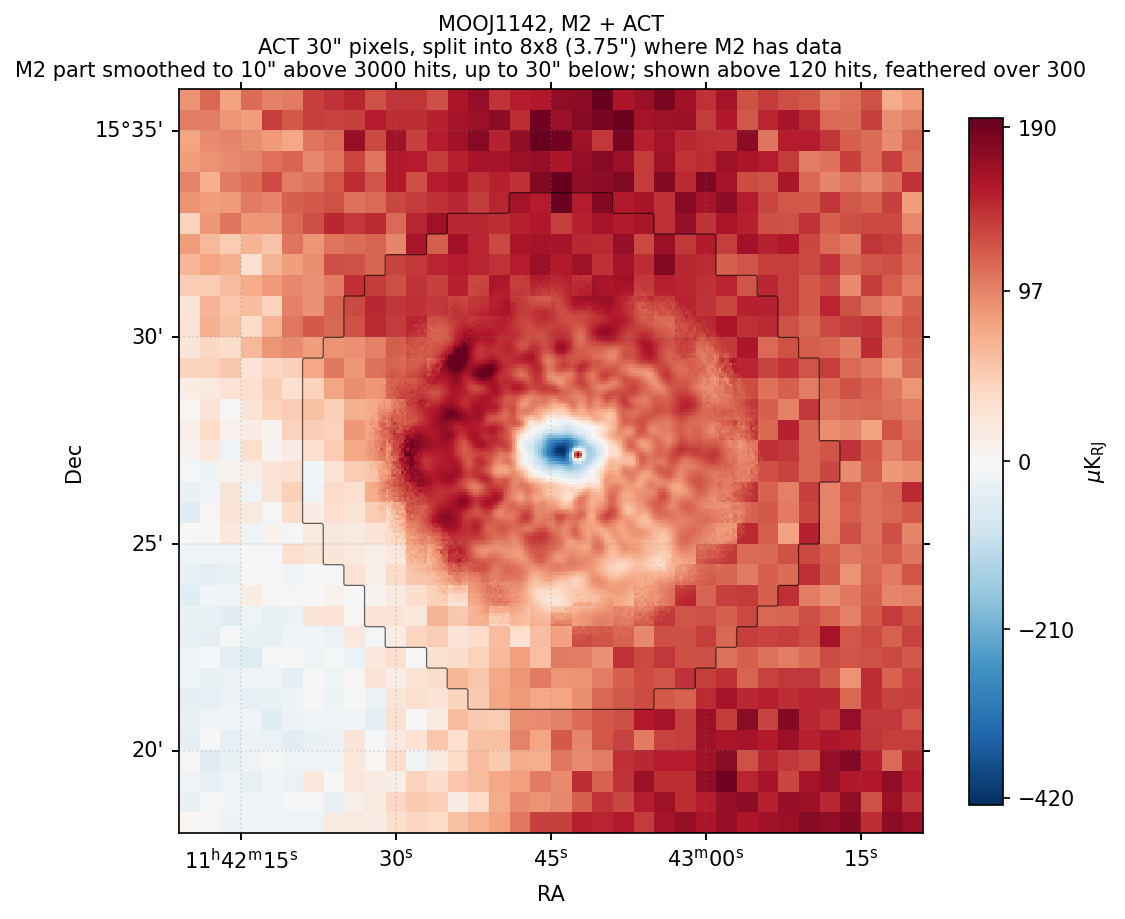
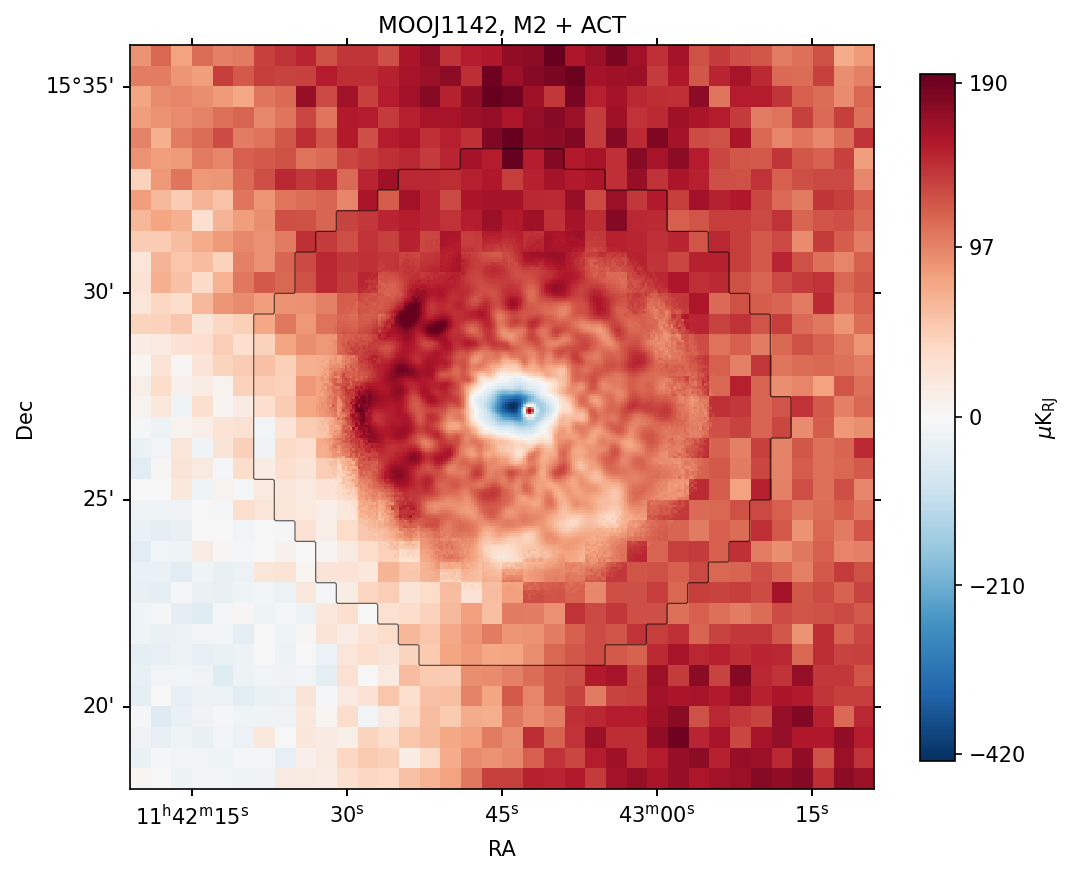
feat: multiscale maps with short titles, display settings printed as a caption and in the page captions, RA/Dec grid optional (--grid)

diff --git a/reports/convergence_summary.html b/reports/convergence_summary.html
@@ -362,15 +362,15 @@ a:focus-visible { outline: 2px solid var(--accent); outline-offset: 2px; }
 </div>
 <figure>
 <img src="figs/summary/best_sim_multiscale.png" alt="Simulation with no mask: truth, simulated data and residual as two-resolution maps">
-<figcaption><strong>Figure 8. Best configuration on the simulation: no mask, no prior, 600 iterations.</strong> Truth: the simulated sky, and in the ACT pixels the sky as a noiseless ACT sees it (ACT beam, pixel average). Data: the joint map, and in the ACT pixels a simulated ACT map with noise from the real ACT inverse variance. The residual's M2 part is smoothed to 30″. Its rms is 9.9 µK in the M2 part and 17.8 µK in the ACT pixels, which is ACT noise.</figcaption>
+<figcaption><strong>Figure 8. Best configuration on the simulation: no mask, no prior, 600 iterations.</strong> 18′ field. 30″ ACT pixels, split into 8 × 8 sub-pixels (3.75″) where M2 has data (hits ≥ 20). The thin stair-step line outlines the split pixels. The M2 part is smoothed to 10″ above 3000 hits and up to 30″ below, shown above 120 hits and feathered into ACT over 300. The positive end of the colour scale is fixed at +150 µK, about the real map's CMB range, because this simulated patch has little CMB. Truth: the simulated sky, and in the ACT pixels the sky as a noiseless ACT sees it (ACT beam, pixel average). Data: the joint map, and in the ACT pixels a simulated ACT map with noise from the real ACT inverse variance. The residual's M2 part is smoothed to 30″. Its rms is 9.9 µK in the M2 part and 17.5 µK in the ACT pixels, which is ACT noise.</figcaption>
 </figure>
 <figure>
 <img src="figs/summary/sim_multiscale.png" alt="Simulation: masked needlet solve and masked solve with the outside prior, truth, data and residual">
-<figcaption><strong>Figure 9. For comparison, the two masked solves</strong> (needlet CG without and with the outside prior), shown the same way. The patches at the footprint edge in the first row's residual are what the mask causes.</figcaption>
+<figcaption><strong>Figure 9. For comparison, the two masked solves</strong> (needlet CG without and with the outside prior), shown the same way as Figure 8. The patches at the footprint edge in the first row's residual are what the mask causes.</figcaption>
 </figure>
 <figure>
 <img src="figs/summary/multiscale.png" alt="Real data: MOOJ1142 M2 plus ACT two-resolution map from the masked solve">
-<figcaption><strong>Figure 10. Real data, 40 TODs, masked solve (600 iterations, K<sub>RJ</sub>).</strong> The ACT map is the coadd of the 8 DR6 f090 splits. This is a placeholder from the earlier masked run. The same map with no mask is queued, first for 40 TODs and then for all TODs, and will replace it here.</figcaption>
+<figcaption><strong>Figure 10. Real data, 40 TODs, masked solve (600 iterations, K<sub>RJ</sub>).</strong> Same display as Figure 8, with the colour scale set by the map itself. The ACT map is the coadd of the 8 DR6 f090 splits, and the thin stair-step line outlines the ACT pixels split into M2 sub-pixels. The joint map's offset from ACT inside the M2 region (−10 µK) is subtracted. This is a placeholder from the earlier masked run. The same map with no mask is queued, first for 40 TODs and then for all TODs, and will replace it here.</figcaption>
 </figure>
 </section>
 </div>

diff --git a/reports/needlet_mapmaking.html b/reports/needlet_mapmaking.html
@@ -291,11 +291,11 @@ out 9 [ G₉₀   G₉₁   G₉₂  …   G₉₉ ]</div>
 </ul>
 <figure>
   <img src="figs/summary/best_sim_multiscale.png" alt="Simulation, best configuration: truth, simulated data and residual as two-resolution maps">
-  <figcaption><strong>Best configuration on the simulation: no mask, no prior, 600 iterations.</strong> Display maps for viewing only: 30″ ACT pixels, split into 8 × 8 sub-pixels (3.75″) where M2 has data. A sub-pixel shows the joint map where it has at least 120 hits, feathered into ACT over the next 300 hits. Below 120 hits it shows its ACT pixel's value, since at those fine scales ACT carries no information and the map there would be pure low-hit M2 noise. The joint map is smoothed to 10″ where it has at least 3000 hits, and more where it has fewer: FWHM 10″ × √(3000 / hits), up to 30″. That keeps the displayed M2 noise about constant. The residual's M2 part is smoothed to 30″: 10 µK rms there, against 18 µK of ACT noise in the ACT pixels.</figcaption>
+  <figcaption><strong>Best configuration on the simulation: no mask, no prior, 600 iterations.</strong> Display maps for viewing only, 18′ field: 30″ ACT pixels, split into 8 × 8 sub-pixels (3.75″) where M2 has data (hits ≥ 20). The thin stair-step line outlines the split pixels. A sub-pixel shows the joint map where it has at least 120 hits, feathered into ACT over the next 300 hits. Below 120 hits it shows its ACT pixel's value, since at those fine scales ACT carries no information and the map there would be pure low-hit M2 noise. The joint map is smoothed to 10″ where it has at least 3000 hits, and more where it has fewer: FWHM 10″ × √(3000 / hits), up to 30″. That keeps the displayed M2 noise about constant. The residual's M2 part is smoothed to 30″: 10 µK rms there, against 18 µK of ACT noise in the ACT pixels.</figcaption>
 </figure>
 <figure>
   <img src="figs/summary/multiscale.png" alt="Real data: MOOJ1142 M2 plus ACT two-resolution map, masked solve">
-  <figcaption><strong>Real data, 40 TODs, K<sub>RJ</sub> units, 600 iterations, still with the mask.</strong> Same display. The ACT map is the coadd of the 8 DR6 f090 splits. Runs without the mask are queued, for 40 TODs and then for all TODs, and will replace this map.</figcaption>
+  <figcaption><strong>Real data, 40 TODs, K<sub>RJ</sub> units, 600 iterations, still with the mask.</strong> 18′ field, same display as above. The thin stair-step line outlines the ACT pixels split into M2 sub-pixels. The ACT map is the coadd of the 8 DR6 f090 splits, and the joint map's offset from ACT in the M2 region (−10 µK) is subtracted. Runs without the mask are queued, for 40 TODs and then for all TODs, and will replace this map.</figcaption>
 </figure>
 
 <h2>Open questions</h2>

diff --git a/examples/multiscale_map.py b/examples/multiscale_map.py
@@ -327,6 +327,28 @@ def smoothing_label(args) -> str:
     return f"{sm}; shown above {show:g} hits{fe}"
 
 
+def caption(args, pix: float) -> str:
+    """
+    Figure caption text with the pixelization and the display settings.
+
+    Parameters
+    ----------
+    args : argparse.Namespace
+        Parsed arguments.
+    pix : float
+        Sub-pixel size in arcsec.
+
+    Returns
+    -------
+    str
+        The caption.
+    """
+    return (
+        f'ACT {pix * args.factor:g}" pixels, split into {args.factor}x{args.factor} ({pix:g}") where M2 has data '
+        f"(hits >= {args.min_hits:g}); {smoothing_label(args)}."
+    )
+
+
 def ticks(norm: Normalize) -> np.ndarray:
     """
     Colour bar ticks with both sides of a two-slope scale labelled.
@@ -347,7 +369,13 @@ def ticks(norm: Normalize) -> np.ndarray:
 
 
 def draw(
-    ax, image: np.ndarray, split: np.ndarray, norm: Normalize, cmap: str, outline: bool
+    ax,
+    image: np.ndarray,
+    split: np.ndarray,
+    norm: Normalize,
+    cmap: str,
+    outline: bool,
+    grid: bool = False,
 ):
     """
     Draw a display map on WCS axes.
@@ -364,6 +392,8 @@ def draw(
         Colour map.
     outline : bool
         Outline the split ACT pixels.
+    grid : bool, default: False
+        Draw the RA/Dec coordinate grid.
 
     Returns
     -------
@@ -377,7 +407,8 @@ def draw(
         ax.contour(split.astype(float), [0.5], colors="k", linewidths=0.6, alpha=0.6)
     ax.set_xlabel("RA")
     ax.set_ylabel("Dec")
-    ax.coords.grid(color="0.5", alpha=0.25, linestyle=":")
+    if grid:
+        ax.coords.grid(color="0.5", alpha=0.25, linestyle=":")
     return im
 
 
@@ -396,16 +427,15 @@ def plot(args, image, split, m2, wcs):
     """
     fig = plt.figure(figsize=(8, 7))
     ax = fig.add_subplot(projection=wcs)
-    im = draw(ax, image, split, make_norm(image, args), args.cmap, args.outline)
+    im = draw(
+        ax, image, split, make_norm(image, args), args.cmap, args.outline, args.grid
+    )
     fig.colorbar(
         im, ax=ax, label=r"$\mu$K$_{\rm RJ}$", shrink=0.85, ticks=ticks(im.norm)
     )
     pix = abs(wcs.wcs.cdelt[0]) * 3600
-    ax.set_title(
-        f'{args.title}\nACT {pix * args.factor:g}" pixels, split into {args.factor}x{args.factor} '
-        f'({pix:g}") where M2 has data\n{smoothing_label(args)}',
-        fontsize=10,
-    )
+    ax.set_title(args.title, fontsize=11)
+    print("caption:", caption(args, pix))
     fig.savefig(args.out, dpi=args.dpi, bbox_inches="tight")
     print("wrote", args.out)
 
@@ -522,6 +552,7 @@ if __name__ == "__main__":
     parser.add_argument(
         "--outline", action="store_true", help="Outline the split ACT pixels"
     )
+    parser.add_argument("--grid", action="store_true", help="Draw the RA/Dec grid")
     parser.add_argument("--title", default="MOOJ1142, M2 + ACT")
     parser.add_argument(
         "--fits", default=None, help="Also write the fine-grid display map to this FITS"

diff --git a/examples/sim_multiscale.py b/examples/sim_multiscale.py
@@ -22,6 +22,7 @@ from matplotlib.colors import Normalize
 from scipy.ndimage import gaussian_filter
 
 from multiscale_map import (
+    caption,
     compose,
     draw,
     fine_grid,
@@ -29,7 +30,6 @@ from multiscale_map import (
     read_act_coadd,
     sample,
     sample_array,
-    smoothing_label,
     ticks,
 )
 from twores_ex import act_conversion
@@ -127,22 +127,16 @@ def main(args: argparse.Namespace):
         for j, (img, nm, title) in enumerate(
             (
                 (truth, norm, "truth"),
-                (data, norm, f"simulated data\n{label}"),
+                (data, norm, f"simulated data, {label}"),
                 (
                     res,
                     rnorm,
-                    "data minus truth"
-                    + (
-                        f' (M2 part at {args.res_smooth:g}")'
-                        if args.res_smooth > 0
-                        else ""
-                    )
-                    + f"\n{label}",
+                    f"data minus truth, {label}",
                 ),
             )
         ):
             ax = fig.add_subplot(len(rows), 3, 3 * k + j + 1, projection=wcs)
-            im = draw(ax, img, split, nm, args.cmap, args.outline)
+            im = draw(ax, img, split, nm, args.cmap, args.outline, args.grid)
             ax.set_title(title, fontsize=11)
             if j > 0:
                 ax.coords[1].set_ticklabel_visible(False)
@@ -150,11 +144,7 @@ def main(args: argparse.Namespace):
             fig.colorbar(
                 im, ax=ax, label=r"$\mu$K$_{\rm RJ}$", shrink=0.8, ticks=ticks(nm)
             )
-    fig.suptitle(
-        f'Simulation, ACT {pix * args.factor:g}" pixels split into {args.factor}x{args.factor} ({pix:g}") '
-        f"where M2 has data\n{smoothing_label(args)}",
-        fontsize=12,
-    )
+    print("caption:", caption(args, pix))
     fig.savefig(args.out, dpi=args.dpi, bbox_inches="tight")
     print("wrote", args.out)
 
@@ -222,6 +212,7 @@ if __name__ == "__main__":
     parser.add_argument("--stretch", choices=["twoslope", "linear"], default="twoslope")
     parser.add_argument("--cmap", default="RdBu_r")
     parser.add_argument("--outline", action="store_true")
+    parser.add_argument("--grid", action="store_true", help="Draw the RA/Dec grid")
     parser.add_argument("--out", required=True)
     parser.add_argument("--dpi", type=int, default=110)
     parser.add_argument(
